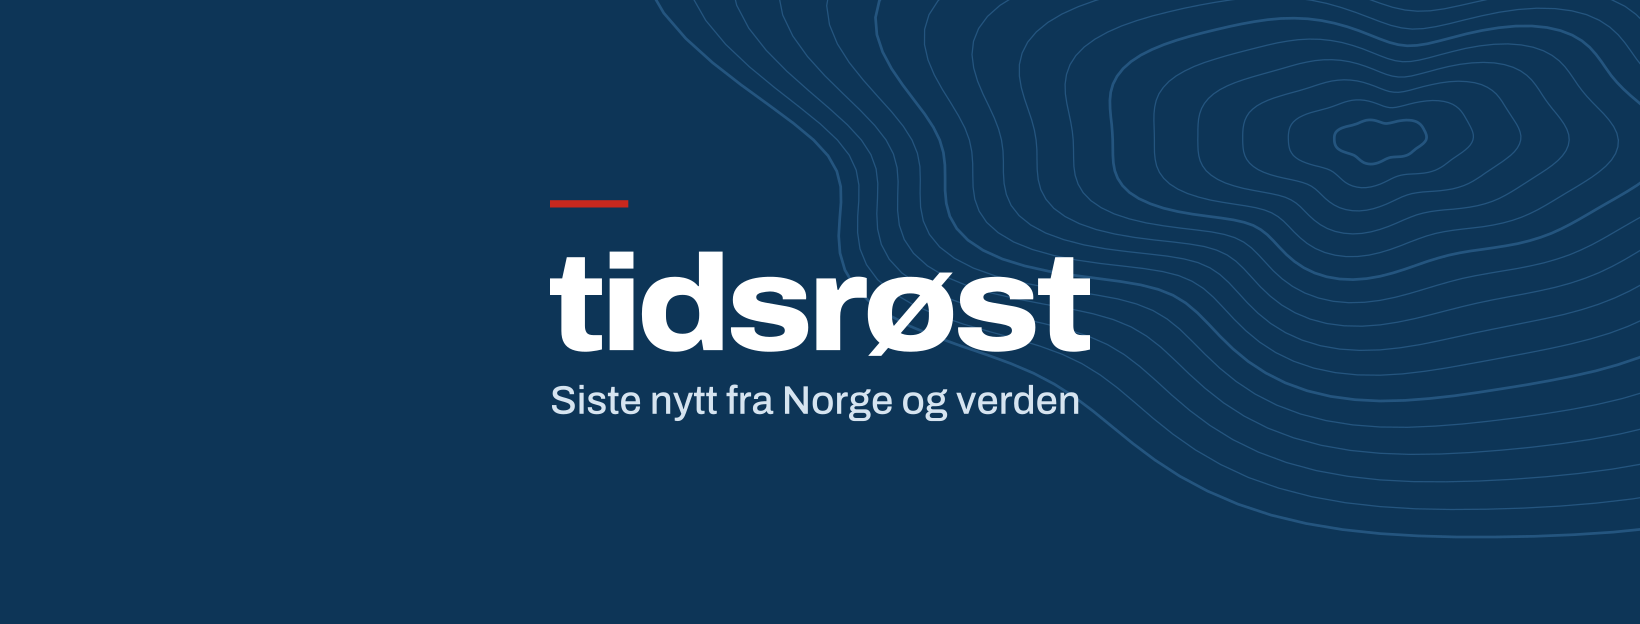
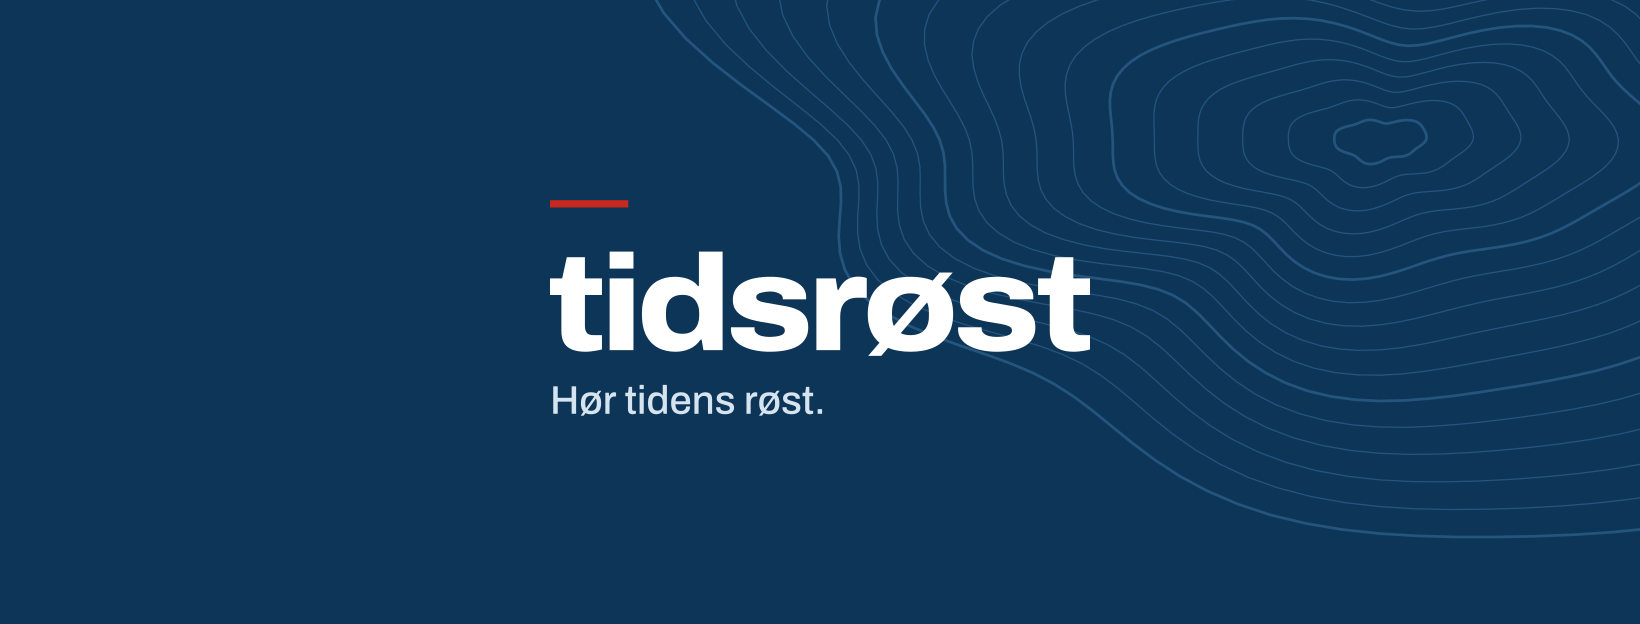
Slogan: "Hør tidens røst." başlıkta logonun altında ve sosyal görsellerde; tanım cümlesi meta ve RSS'te kalır

Changed region(s): [[0.3421, 0.609, 0.653, 0.6699]]

diff --git a/src/lib/site.ts b/src/lib/site.ts
@@ -1,7 +1,9 @@
 export const SITE = {
   name: 'tidsrøst',
   description: 'Siste nytt fra Norge og verden.',
-  // Ana sayfanın meta açıklaması (SEO, 140–155 karakter); kısa description slogan olarak başlıkta kalır.
+  // Slogan (sahibin seçimi, 2026-10-18): başlıkta logonun altında ve marka görsellerinde. description meta/RSS içindir.
+  slogan: 'Hør tidens røst.',
+  // Ana sayfanın meta açıklaması (SEO, 140–155 karakter); kısa description diğer sayfaların meta ve RSS açıklamasıdır.
   forsideBeskrivelse:
     'Siste nytt fra Norge og verden – økonomi, politikk, samfunn og teknologi forklart enkelt, basert på flere uavhengige kilder og offisielle data.',
   locale: 'nb-NO',

diff --git a/BRAND.md b/BRAND.md
@@ -1,6 +1,6 @@
 # tidsrøst — Kimlik Kılavuzu
 
-> Sürüm 1.1 · 18 Ekim 2026 (logo yazının kendisi, ø simgesi; sosyal kapak görselleri). Sahibiyle 10–18 Ekim arasında verilen kararların toplu hâli; site (N50 harita yaprağı,
+> Sürüm 1.2 · 18 Ekim 2026 (slogan "Hør tidens røst."; logo yazının kendisi, ø simgesi; sosyal kapak görselleri). Sahibiyle 10–18 Ekim arasında verilen kararların toplu hâli; site (N50 harita yaprağı,
 > 10 Ekim) ve kapaklar (Fjord, 18 Ekim) bu kararlarla canlıda. Bu belge kimliğin tek kaynağıdır; ayrıntılı site kuralları
 > `DESIGN.md`'de, ürün kararları `PRODUCT.md`'de. Okur dili Norveççe (Bokmål); bu belge editör içindir.
 > "Öneri" diye işaretli maddeler sahibin onayına açıktır.
@@ -11,8 +11,13 @@ Norveç'te ve dünyada olanı, gürültüsüz ve kaynağından anlatan reklamsı
 sakin, dürüst ve kolay okunur bir alternatif.
 
 - **Ad:** *tid* (zaman) + *røst* (ses, eski ve ağırbaşlı söyleyiş) → **"zamanın sesi"**.
-- **Sitedeki alt başlık (canlı):** **Siste nytt fra Norge og verden.**
-- **Motto (öneri, sitede kullanılmıyor):** *Tidens stemme – rett fra kilden.* · kısa hâli *Rett fra kilden.*
+- **Slogan (sahibin seçimi, 18 Ekim 2026):** **Hør tidens røst.** (*Zamanın sesini dinle.*) Adın anlamını söyler ve
+  Viking çağının haber taşıyan sesine, skalda selam verir. Sitede başlıkta logonun altında (`SITE.slogan`), sosyal kapak
+  görsellerinde ve varsayılan paylaşım görselinde durur.
+- **Tanım cümlesi:** *Siste nytt fra Norge og verden.* Meta açıklaması, RSS ve ekran okuyucu başlığı içindir
+  (`SITE.description`); ne yaptığımızı söyler, slogan değildir.
+- Elenen öneriler: "Tidens stemme – rett fra kilden", "Bud fra kilden", "Ravnene melder", "Ord som står" ve diğerleri.
+  "Budstikka" bir gazetenin adı olduğu için kullanılmaz.
 - **Kime konuşuyoruz:** Norveç'teki genel haber okuru; kitle yaşça büyük (kapaklarda punto bu yüzden büyük).
   Telefonda ve masaüstünde kısa oturumlar; çoğu doğrudan tek bir habere gelir.
 
@@ -64,7 +69,7 @@ sakin, dürüst ve kolay okunur bir alternatif.
     ø yuvarlak kırpmada da tam görünür.
   - `brand/sosyal/` kapak görselleri ve `public/og-default.png` (`node scripts/sosyal-kapak.mjs` üretir, logoyu
     `tidsrost-ordmerke-hvit.svg`'den alır): Fjord zemin, eş yükselti dokusu, kısa kırmızı çizgi, beyaz logo, altında slogan
-    "Siste nytt fra Norge og verden". `x-kapak-1500x500.png`, `facebook-kapak-1640x624.png`,
+    "Hør tidens røst.". `x-kapak-1500x500.png`, `facebook-kapak-1640x624.png`,
     `linkedin-kapak-1128x191.png` (logo ortada: profil fotoğrafından ve mobil kırpmadan uzak); `og-default.png`
     1200×630 (kapaksız haberlerin paylaşım görseli, logo solda).
 - Yapılmaz: ø'yü yeniden çizmek ya da başka yazı tipinden almak, döndürmek, gölge, degrade, kontur; logonun yanına ayrıca
@@ -135,10 +140,10 @@ su `#7fb2e5`.
 ## 10. Hazır metinler (Norveççe) · öneri
 
 **Sosyal biyografi:**
-> tidsrøst – tidens stemme, rett fra kilden. Rolige nyheter fra Norge og verden, bygget på offentlige kilder. Uten reklame.
+> tidsrøst – hør tidens røst. Rolige nyheter fra Norge og verden, bygget på offentlige kilder. Uten reklame.
 
 **Tek cümle tanıtım:**
-> tidsrøst er en reklamefri nyhetstjeneste som forteller hva som skjer i Norge og verden, rett fra de offentlige kildene.
+> tidsrøst er en reklamefri nyhetstjeneste som forteller hva som skjer i Norge og verden, rett fra de offentlige kildene. Hør tidens røst.
 
 ## 11. Uygulamalar
 
